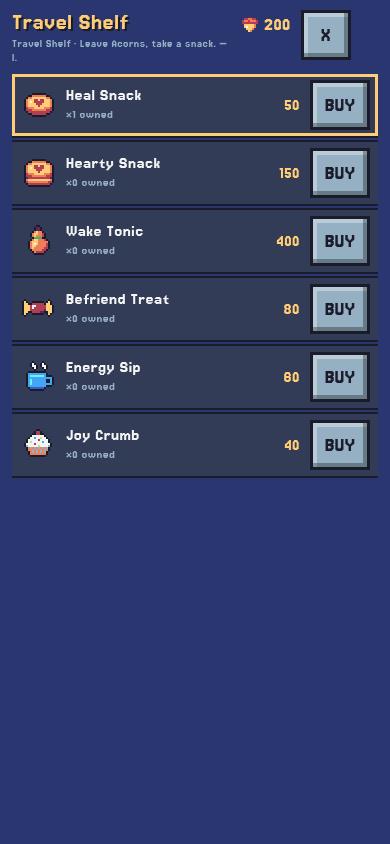
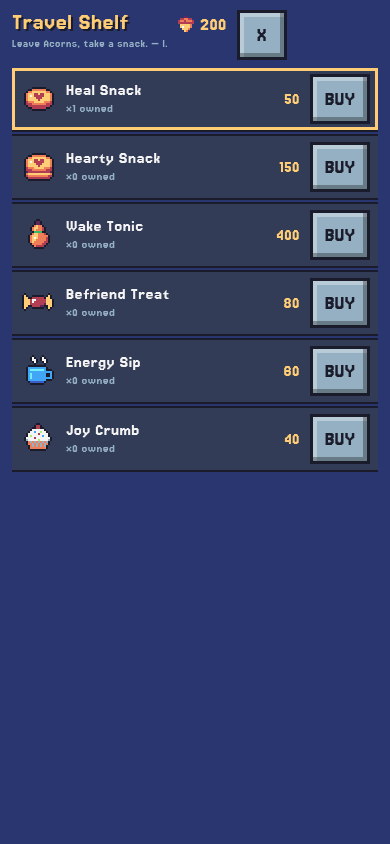
Q6 runtime emotes + shop subtitle and item text tweaks
ICONS_SEALS Q6 (runtime only): emote_bang replaces the fillRect "!" when
a trainer spots you (same X/Y); emote_sleep over a napping (Fainted)
follower; emote_heart over the foe on a befriend success; emote_hearts
on the Warm Bowl FEED (drawn over the heart particles). Grids copied
verbatim into GLYPH. '?' and '...' wait for the dialog pass.

Travel Shelf subtitle: "Leave Acorns, take a snack. — I." (no "Travel
Shelf ·" prefix; nbsp before and after the dash keeps the sign-off on
the line). Item blurbs state their numbers (Restores 40% / 75% HP;
Wakes a fainted Walkling at 25% HP; Wild battles only. Easier to
befriend.). Field-only items in battle: "Can't use that in battle."
("yet" only for unknown ids). "Bag is full, so some were left behind."
Debug: PixelPets.emotes. Build 20261008-1617.

Changed region(s): [[0.0308, 0.0, 0.9846, 0.5853]]

diff --git a/game.js b/game.js
@@ -367,7 +367,7 @@ function updateCareButtons(){
 }
 
 /* ---------- pet care ---------- */
-const anim = { busyUntil: 0, jumpUntil: 0, sleepUntil: 0, parts: [] };
+const anim = { busyUntil: 0, jumpUntil: 0, sleepUntil: 0, bowlFrom: 0, bowlUntil: 0, parts: [] };
 function addPart(type, x, y, vx=0, vy=-8, life=1.2){ anim.parts.push({ type, x, y, vx, vy, life, max: life }); }
 const PET_H = 64, GROUND = PET_H - 14;                  // max logical height of the Pet tab scene (56..64, see fitPetScene)
 function petPos(t){ const c = $('#petCanvas'), W = (c && c.width) || 56, H = (c && c.height) || 56, x = Math.round((W - 16) / 2 + Math.sin(t / 2200) * 7); return { x, y: H - 14 - 7 }; }
@@ -383,7 +383,7 @@ function doAction(act){
     if (p.hunger >= 98) { sfx('denied'); return toast('Too full to eat!'); }
     const bowl = bowlReady();
     p.hunger = clamp(p.hunger + careGain(FEED_FOOD, p.hunger, FEED_BANDS) + (bowl ? BOWL.food : 0), 0, 100); p.happy = clamp(p.happy + (bowl ? BOWL.joy : 3), 0, 100);
-    if (bowl) S.flags[BOWL.flag] = dayKey(Date.now());
+    if (bowl) { S.flags[BOWL.flag] = dayKey(Date.now()); anim.bowlFrom = t + 600; anim.bowlUntil = t + 2100; }   // two-hearts balloon (ICONS_SEALS Q6)
     addPart('apple', pp.x + 6, pp.y - 4, 0, 4, 0.9);
     setTimeout(() => { for (let i=0;i<(bowl ? 4 : 3);i++) addPart('heart', pp.x + 2 + i*5, pp.y, (i-1)*4, -10); }, 600);
     anim.busyUntil = t + (bowl ? 1500 : 1100); msg = bowl ? 'Warm Bowl! ' + petName(p) + ' gobbles it up. +FOOD +JOY' : 'Yum! +FOOD';
@@ -509,6 +509,7 @@ function drawPetScene(t, dt){
     if (Math.random() < dt * 2.5) addPart('z', x + 12, y, 3, -6, 1.4);
   }
   drawParticles(g, dt);
+  if (t >= anim.bowlFrom && t < anim.bowlUntil) drawGlyph(g, 'emote_hearts', x + 5, Math.max(0, y + bob - 13));   // Warm Bowl: two-hearts balloon over the particles (ICONS_SEALS Q6)
 }
 
 /* ---------- maps, objects, conditions (MAPS_SLICE Phase M + INTERIORS_DIALOG v1.0) ---------- */
@@ -785,15 +786,15 @@ const ITEM_ART = {
 };
 // Item icons: Design ICONS_SEALS item_* grids, drawn via keeperCanvas at 36 CSS px.
 const ITEMS = {
-  heal_snack:     { name: 'Heal Snack',     plural: 'Heal Snacks',     cap: 20, price: 50,  use: ['battle', 'field'], target: true,  heal: 0.4,  blurb: 'Restores some HP.' },
-  hearty_snack:   { name: 'Hearty Snack',   plural: 'Hearty Snacks',   cap: 10, price: 150, use: ['battle', 'field'], target: true,  heal: 0.75, blurb: 'Restores a lot of HP.' },
-  wake_tonic:     { name: 'Wake Tonic',     plural: 'Wake Tonics',     cap: 5,  price: 400, use: ['battle', 'field'], target: true,  blurb: 'Wakes a napping Walkling.' },
-  befriend_treat: { name: 'Befriend Treat', plural: 'Befriend Treats', cap: 20, price: 80,  use: ['battle'],          target: false, blurb: 'Wild Walklings like it.' },
+  heal_snack:     { name: 'Heal Snack',     plural: 'Heal Snacks',     cap: 20, price: 50,  use: ['battle', 'field'], target: true,  heal: 0.4,  blurb: 'Restores 40% HP.' },
+  hearty_snack:   { name: 'Hearty Snack',   plural: 'Hearty Snacks',   cap: 10, price: 150, use: ['battle', 'field'], target: true,  heal: 0.75, blurb: 'Restores 75% HP.' },
+  wake_tonic:     { name: 'Wake Tonic',     plural: 'Wake Tonics',     cap: 5,  price: 400, use: ['battle', 'field'], target: true,  blurb: 'Wakes a fainted Walkling at 25% HP.' },
+  befriend_treat: { name: 'Befriend Treat', plural: 'Befriend Treats', cap: 20, price: 80,  use: ['battle'],          target: false, blurb: 'Wild battles only. Easier to befriend.' },
   energy_sip:     { name: 'Energy Sip',     plural: 'Energy Sips',     cap: 10, price: 60,  use: ['field'],           target: true,  blurb: 'A fizzy pick-me-up. NRG +40.' },
   joy_crumb:      { name: 'Joy Crumb',      plural: 'Joy Crumbs',      cap: 10, price: 40,  use: ['field'],           target: true,  blurb: 'A sweet treat. JOY +20.' },
 };
 const ITEM_ORDER = Object.keys(ITEMS);
-const BAG_FULL_MSG = 'Bag is full; some were left behind.';
+const BAG_FULL_MSG = 'Bag is full, so some were left behind.';
 const itemLabel = (id, n) => { const it = ITEMS[id], one = it ? it.name : id, many = it ? it.plural : id; return n === 1 ? 'a ' + one : n + ' ' + many; };
 const acorns = n => n + (n === 1 ? ' Acorn' : ' Acorns');      // INVENTORY §2: the save field stays `money`
 const itemCount = id => (S && S.bag && S.bag[id]) || 0;
@@ -818,7 +819,7 @@ function itemRefusal(id, p, ctx){
     if (battle.treat) return "It's already nibbling a treat.";
     return null;
   }
-  if (!it.use.includes(ctx)) return "Can't use that here yet.";
+  if (!it.use.includes(ctx)) return ctx === 'battle' ? "Can't use that in battle." : "Can't use that here yet.";
   if (it.target && !p) return 'Pick a Walkling first.';
   const nm = petName(p);
   if (it.heal) { if (isFainted(p)) return nm + ' needs a proper rest.'; if (hpOf(p) >= maxHpOf(p)) return nm + ' is already at full HP.'; }
@@ -1242,10 +1243,10 @@ function checkChatter(){
 function drawBubbles(g, cx, cy, t){
   if (spot.bang && spot.id) {                          // §6.1 "!" bubble, 2px above the trainer's head
     const o = CUR.objs.find(x => x.id === spot.id);
-    if (o) { const q = objPos(o), X = Math.round(q.x * TS - cx) + 4, Y = Math.round(q.y * TS - cy) - 15;
-      g.fillStyle = PAL.k; g.fillRect(X, Y, 9, 12); g.fillStyle = PAL.w; g.fillRect(X + 1, Y + 1, 7, 10);
-      g.fillStyle = PAL.r; g.fillRect(X + 3, Y + 2, 3, 5); g.fillRect(X + 3, Y + 8, 3, 2); }
+    if (o) { const q = objPos(o); drawGlyph(g, 'emote_bang', Math.round(q.x * TS - cx) + 4, Math.round(q.y * TS - cy) - 15); }
   }
+  const fp = pet();                                    // Zz over a napping (Fainted) follower (ICONS_SEALS Q6)
+  if (fol.x != null && fp && followerOn() && isFainted(fp) && !scene) drawGlyph(g, 'emote_sleep', Math.round(fol.fx * TS - cx) + 4, Math.round(fol.fy * TS - cy) - 15);
   const ft = !moveHeld() && !walk.to && facingTarget();
   if (ft && ft.kind !== 'door') { const q = objPos(ft); const X = q.x * TS - cx + 4, Y = q.y * TS - cy - 11 - (Math.floor(t / 400) % 2);
     WART.talk.forEach((r, j) => { for (let i = 0; i < 8; i++) if (r[i] !== '.') { g.fillStyle = PAL[r[i]]; g.fillRect(X + i, Y + j, 1, 1); } }); }
@@ -2335,7 +2336,7 @@ async function bagSheet(){
   const pick = await openSheet('Bag', ids.map(k => ({ label: ITEMS[k].name + '  x' + itemCount(k), sub: ITEMS[k].blurb, value: k, art: k })), 'BACK');
   if (!pick || !B.on) return;
   const it = ITEMS[pick];
-  if (!it.use.includes('battle')) return refuse("Can't use that here yet.");
+  if (!it.use.includes('battle')) return refuse("Can't use that in battle.");
   let tgt = null;
   if (it.target) { tgt = await itemTargetSheet(pick, B.me.petId); if (!tgt || !B.on) return; }
   const no = itemRefusal(pick, tgt ? petById(tgt) : null, 'battle');
@@ -2554,6 +2555,7 @@ function drawBattle(t, dt){
   drawMon('foe', f.si, f.stage, fx0, fy0, false, !!f.faded);
   if (B.kind === 'wild' && f.stage > 0 && Math.floor(t / 350) % 5 === 0) drawGlyph(g, 'spark', fx0 + 14, fy0 - 2);   // rare form twinkle
   drawMon('me', spi(p), p.stage, mx0, my0, true, isFaded(p));             // back view = mirrored
+  if (B.fx.some(e => e.kind === 'hearts' && t - e.t0 < e.dur)) drawGlyph(g, 'emote_heart', fx0 + 5, Math.max(0, fy0 - 13));   // befriend success (ICONS_SEALS Q6)
   btParts = btParts.filter(pt => (pt.life -= dt) > 0);
   btParts.forEach(pt => { pt.y += pt.vy * dt; drawGlyph(g, pt.type, pt.x, pt.y); });
 }
@@ -3111,6 +3113,9 @@ function boot(){
   Object.defineProperty(api, 'spot', { enumerable: true, get(){ return { id: spot.id, bang: spot.bang }; } });   // §6.1 walk-up in progress
   Object.defineProperty(api, 'sightLines', { enumerable: true, get(){ return Object.fromEntries(CUR.objs.filter(o => o.kind === 'trainer' && present(o)).map(o => [o.id, sightLine(o)])); } });
   Object.defineProperty(api, 'mapObjs', { enumerable: true, get(){ return CUR.objs.filter(present).map(o => ({ kind: o.kind, id: o.id, x: objPos(o).x, y: objPos(o).y, sprite: o.sprite || null, shop: o.shop ? o.shop.slice() : null, art: !!(o.sprite && WART[o.sprite]) })); } });   // debug: what the current map shows
+  Object.defineProperty(api, 'emotes', { enumerable: true, get(){ const fp = pet(), t = performance.now();
+    return { bang: !!(spot.bang && spot.id), sleep: !!(fol.x != null && fp && followerOn() && isFainted(fp) && !scene),
+      heart: !!(battle.on && battle.fx && battle.fx.some(e => e.kind === 'hearts' && now() - e.t0 < e.dur)), hearts: t >= anim.bowlFrom && t < anim.bowlUntil, fol: fol.x != null ? { fx: fol.fx, fy: fol.fy } : null }; } });   // debug: which Q6 emotes are showing
   Object.defineProperty(api, 'fading', { enumerable: true, get(){ return fade.busy; } });
   Object.defineProperty(api, 'optionsReady', { enumerable: true, get(){ return performance.now() >= optArmAt; } });   // option buttons accept taps (500 ms after they appear)
   Object.defineProperty(api, 'bumpHint', { enumerable: true, get(){ return $('#bumpHint').hidden ? null : $('#bumpHint').textContent; } });

diff --git a/index.html b/index.html
@@ -2,7 +2,7 @@
 <html lang="en">
 <head>
 <meta charset="utf-8">
-<meta name="kw-build" content="20261008-1556">
+<meta name="kw-build" content="20261008-1617">
 <meta name="viewport" content="width=device-width, initial-scale=1, maximum-scale=1, user-scalable=no, viewport-fit=cover">
 <meta http-equiv="Cache-Control" content="no-cache">
 <meta name="theme-color" content="#1a1c2c">
@@ -13,7 +13,7 @@
 <meta name="apple-mobile-web-app-title" content="Walklings">
 <meta name="description" content="Walklings: raise a pixel Walkling, walk the map and befriend wild ones.">
 <link rel="icon" href="data:,">
-<link rel="stylesheet" href="style.css?v=20261008-1556">
+<link rel="stylesheet" href="style.css?v=20261008-1617">
 </head>
 <body>
 <div id="app">
@@ -189,7 +189,7 @@
     <div class="bag-head">
       <div>
         <div id="shopTitle" class="ov-title">Travel Shelf</div>
-        <div class="shop-flavour">Travel Shelf &middot; Leave Acorns, take a snack. &mdash; I.</div>
+        <div class="shop-flavour">Leave Acorns, take a snack.&nbsp;&mdash;&nbsp;I.</div>
       </div>
       <div class="bag-money" aria-label="Acorns"><canvas id="shopAcorn" width="8" height="8" aria-hidden="true"></canvas><b id="shopMoney">0</b></div>
       <button id="shopClose" class="btn bag-x" type="button" aria-label="Close">X</button>
@@ -347,15 +347,15 @@
 </div>
 
 <div id="toast" aria-live="polite"></div>
-<script>window.BUILD = "20261008-1556";</script>
-<script src="sprites.js?v=20261008-1556"></script>
-<script src="keeper.js?v=20261008-1556"></script>
-<script src="stats.js?v=20261008-1556"></script>
-<script src="moves.js?v=20261008-1556"></script>
-<script src="data/mapdata.js?v=20261008-1556"></script>
-<script src="save.js?v=20261008-1556"></script>
-<script src="env.js?v=20261008-1556"></script>
-<script src="sfx.js?v=20261008-1556"></script>
-<script src="game.js?v=20261008-1556"></script>
+<script>window.BUILD = "20261008-1617";</script>
+<script src="sprites.js?v=20261008-1617"></script>
+<script src="keeper.js?v=20261008-1617"></script>
+<script src="stats.js?v=20261008-1617"></script>
+<script src="moves.js?v=20261008-1617"></script>
+<script src="data/mapdata.js?v=20261008-1617"></script>
+<script src="save.js?v=20261008-1617"></script>
+<script src="env.js?v=20261008-1617"></script>
+<script src="sfx.js?v=20261008-1617"></script>
+<script src="game.js?v=20261008-1617"></script>
 </body>
 </html>

diff --git a/sprites.js b/sprites.js
@@ -271,6 +271,63 @@ const GLYPH = {
     '.yo..oo.',
     'o......o',
   ],
+  // 9x12 emote balloons: Design ICONS_SEALS (5d59b34) emote_*, copied verbatim; drawn at X = tileX + 4, Y = tileY - 15.
+  emote_bang: [
+    '.kkkkkkk.',
+    'kwwwwwwwk',
+    'kwwrrrwwk',
+    'kwwrrrwwk',
+    'kwwrrrwwk',
+    'kwwwrwwwk',
+    'kwwwwwwwk',
+    'kwwrrrwwk',
+    'kwwrrrwwk',
+    'kwwwwwwwk',
+    '.kwkkkkk.',
+    '.kk......',
+  ],
+  emote_sleep: [
+    '.kkkkkkk.',
+    'kwwwwwwwk',
+    'kwwbbbbbk',
+    'kwwwwwbbk',
+    'kwwwwbbwk',
+    'kwwwbbwwk',
+    'kwwbbbbbk',
+    'kbbbwwwwk',
+    'kwbwwwwwk',
+    'kbbbwwwwk',
+    '.kwkkkkk.',
+    '.kk......',
+  ],
+  emote_heart: [
+    '.kkkkkkk.',
+    'kwwwwwwwk',
+    'kwwwwwwwk',
+    'kwrrwrrwk',
+    'krwrrrrrk',
+    'krrrrrrrk',
+    'kwrrrrrwk',
+    'kwwrrrwwk',
+    'kwwwrwwwk',
+    'kwwwwwwwk',
+    '.kwkkkkk.',
+    '.kk......',
+  ],
+  emote_hearts: [
+    '.kkkkkkk.',
+    'kwwwwrwrk',
+    'kwwwwrrrk',
+    'kwwwwwrwk',
+    'kwrwrwwwk',
+    'krrrrrwwk',
+    'krrrrrwwk',
+    'kwrrrwwwk',
+    'kwwrwwwwk',
+    'kwwwwwwwk',
+    '.kwkkkkk.',
+    '.kk......',
+  ],
   heart:['.r.r.','rrrrr','rrrrr','.rrr.','..r..'],
   apple:['..t..','.rrr.','rrrwr','rrrrr','.rrr.'],
   z:['www','..w','.w.','w..','www'],

diff --git a/BACKLOG.md b/BACKLOG.md
@@ -24,7 +24,8 @@ This order applies after the Kindle Wild rename, which shipped as 9cc836d and 9d
 
 **Locked build order after Phase M (Vincent, Oct 8):** INVENTORY v1.0 -> online saves (ONLINE_SAVES_SCOPE) -> Route 2 (ACT1_ROUTE2).
    - **Progress (INVENTORY 1/3, items + Acorns):** catalog, useItem, battle Bag list, give/pickup caps, Acorns. Done.
-   - **Progress (INVENTORY 2/3, Bag overlay + icons):** `#ovBag` from Walk map BAG and Pet tab BAG (bottom-left); acorn glyph + money in the header; item icons (Design ICONS_SEALS) on Bag and battle BAG rows; Befriend Treat greyed "(battle only)"; empty state points at Ilse's Travel Shelf; ↑/↓ Enter Esc; USE → party sheet (partner pre-selected). 8x8 `icon_acorn` / `icon_star` / d-pad arrows replace system-font ★ ▲ ◀ ▶ ▼ (aria-labels kept). **Progress (INVENTORY 3/3, Travel Shelf):** runtime `travel_shelf` prop at (6,2) in `hm_lantern_in` with a 16x16 shelf sprite; `#ovShop` BUY at catalog prices (too-poor / at-cap refusals); empty before starter; beds untouched. Next: Q6 runtime emotes (bang / Zz / heart / Warm Bowl hearts) as their own commit.
+   - **Progress (INVENTORY 2/3, Bag overlay + icons):** `#ovBag` from Walk map BAG and Pet tab BAG (bottom-left); acorn glyph + money in the header; item icons (Design ICONS_SEALS) on Bag and battle BAG rows; Befriend Treat greyed "(battle only)"; empty state points at Ilse's Travel Shelf; ↑/↓ Enter Esc; USE → party sheet (partner pre-selected). 8x8 `icon_acorn` / `icon_star` / d-pad arrows replace system-font ★ ▲ ◀ ▶ ▼ (aria-labels kept). **Progress (INVENTORY 3/3, Travel Shelf):** runtime `travel_shelf` prop at (6,2) in `hm_lantern_in` with a 16x16 shelf sprite; `#ovShop` BUY at catalog prices (too-poor / at-cap refusals); empty before starter; beds untouched. Done.
+   - **Q6 runtime emotes (ICONS_SEALS):** `emote_bang` replaces the fillRect '!' when a trainer spots you; `emote_sleep` over a napping (Fainted) follower; `emote_heart` over the foe on a befriend success; `emote_hearts` on the Warm Bowl FEED. `?` and `…` wait for the dialog pass (`['emote', who, id]`). Shop subtitle drops the 'Travel Shelf ·' prefix, nbsp keeps '— I.' with the line; item blurbs state their numbers; field-only items in battle say "Can't use that in battle."
 
 ## Top 3
 
